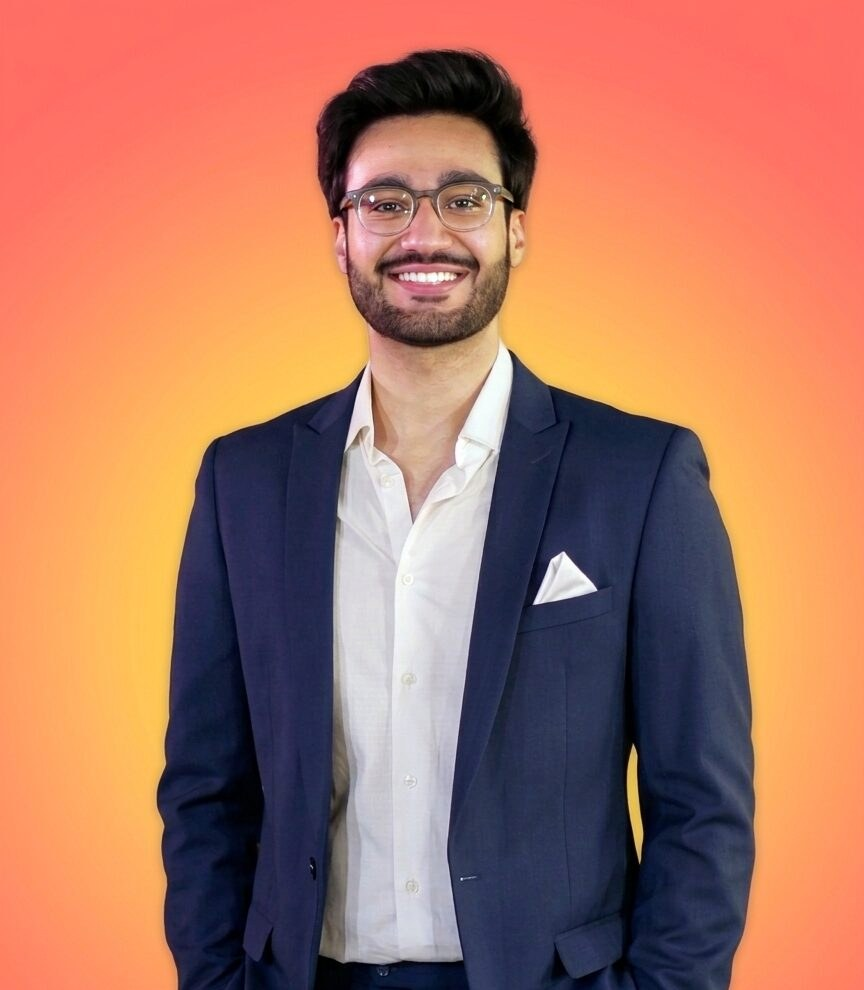
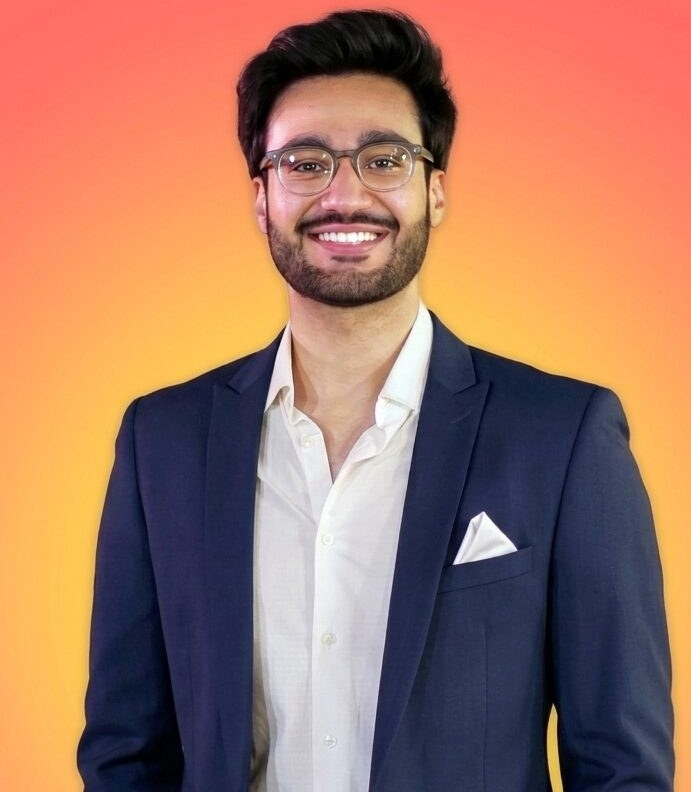
Add files via upload

diff --git a/lite.html b/lite.html
@@ -123,6 +123,14 @@ em.s{font-family:var(--f-serif);font-style:italic;font-weight:400;letter-spacing
 .row span{display:block;font-size:14px;color:var(--ink-2);line-height:1.45}
 .row span.at{color:var(--accent);font-size:13.5px;margin-top:1px}
 .row.aw{grid-template-columns:96px 1fr 52px;align-items:center}
+.row.jb{grid-template-columns:96px 1fr 92px}
+.row.jb .lgw{display:flex;justify-content:flex-end;padding-top:4px}
+.row.jb .lg{height:16px;width:auto;max-width:92px;object-fit:contain;object-position:right top;filter:brightness(0);opacity:.8}
+.row.jb .lg[src*="leoburnett"]{height:24px;padding-top:0}
+.sub{display:flex;justify-content:space-between;align-items:baseline;gap:12px;margin:22px 0 10px;padding-top:12px;border-top:1px solid var(--line)}
+.sub b{font-size:15px;letter-spacing:.02em}
+.sub .mono{color:var(--mute)}
+.head + .sub{margin-top:4px}
 .row.aw .tr{display:flex;justify-content:flex-end;align-items:center;color:var(--accent)}
 .row.aw .troph{height:44px;width:auto;max-width:52px;object-fit:contain}
 .row.aw .troph.laurel{width:42px;height:42px}
@@ -220,14 +228,17 @@ dialog.lb .bar .mono{color:#B8AEA6}
     <div class="work" id="work-grid"></div>
   </section>
 
+  <section class="sec" id="film">
+    <div class="head"><h2>Film &amp; <em class="s">reel</em></h2><span class="mono">Scroll each row →</span></div>
+    <div class="sub"><b>Producer</b><span class="mono" id="n-p"></span></div>
+    <div class="strip" id="strip-p"></div>
+    <div class="sub"><b>Director</b><span class="mono" id="n-d"></span></div>
+    <div class="strip" id="strip-d"></div>
+  </section>
+
   <section class="sec" id="experiences">
     <div class="head"><h2>Brand <em class="s">experiences</em></h2><span class="mono">KSA · 2025</span></div>
     <div class="exp" id="exp-grid"></div>
-  </section>
-
-  <section class="sec" id="film">
-    <div class="head"><h2>Film &amp; <em class="s">reel</em></h2><span class="mono">Scroll →</span></div>
-    <div class="strip" id="strip"></div>
   </section>
 
   <section class="sec two" id="career">
@@ -250,7 +261,7 @@ dialog.lb .bar .mono{color:#B8AEA6}
 
   <section class="sec">
     <div class="how">
-      <p class="big">A creative who can write the script, run the pitch, sit in the edit and <span class="key">still care about the brief</span>.</p>
+      <p class="big">A creative who can write the script, run the pitch, sit in the edit and <span class="key">still lead with the brief</span>.</p>
       <div><span class="n">01</span><b>Start from a truth</b><span>Every campaign begins with a consumer insight, tested hard before it's made.</span></div>
       <div><span class="n">02</span><b>Plan where it counts</b><span>Integrated brand plans that decide where the investment goes, not just what it looks like.</span></div>
       <div><span class="n">03</span><b>Make it, fast</b><span>Production roots, AI workflows and a think-tank team that pitches 2–3 big ideas a month.</span></div>
@@ -291,12 +302,13 @@ const byId=(list,id)=>list.find(p=>p.id===id);
 const vsrc=v=>`./${v}.mp4`;
 const PICKS=["always","zyn","safeguard","dalda","knorr","value","barbican","kia","closeup"];
 const HOV={v45:12,v46:28,v47:24,v43:3,v23:2,v20:6,v31:3,v53:3,v55:3,v57:3,v44:20};
-const STRIP=[
+const PROD=[
  ["v45","Teri Meri Kahaniyaan","Feature film · marketing"],["v46","Rawalpindi Express","Feature film · producer"],
- ["v47","Digestive Showtime","15M+ views in month one"],["v43","National Ketchup Factory","Web series · Effie Bronze"],
- ["v23","Dalda · Eid se Pehle Eidi","Ramadan · associate director"],["v20","Dalda · Maamta","Writer"],["v31","Surf Excel · Ziddi Daaghon Se Kia Darna","MullenLowe · thematic"],
- ["v53","KIA Stonic · Beach","Associate director"],["v55","Always · Shhh","Associate director"],
- ["v57","Ensure · Abbott TVC","Director"],["v44","Healthy Saudi Smile","Haleon KSA · producer"]
+ ["v47","Digestive Showtime","20M+ views"],["v43","National Ketchup Factory","Web series · Effie Bronze"],
+ ["v44","Healthy Saudi Smile","Haleon KSA · producer"],["v42","DVC Showreel","TVCs & DVCs · 2019"],
+ ["v77","Scrub Shine Ultra","TVC · producer"],["v78","Jazz Super","TVC · producer"],["v79","Fresh Up","TVC · producer"],["v80","Domino's Mighty","TVC · producer"],["v81","Oppo Reno2 F","TVC · producer"],
+ ["v82","Digestive Showtime · Yorker","Short film · assoc. creative producer"],["v83","Digestive Showtime · Daughter By Law","Short film · assoc. creative producer"],["v84","Digestive Showtime · 2 Sey 5","Short film · assoc. creative producer"],["v85","Digestive Showtime · Full Circle","Short film · assoc. creative producer"],["v86","Digestive Showtime · Road Trip","Short film · assoc. creative producer"],
+ ["v87","Peek Freans RIO · Cotton Candy","3D film · producer · 2020"],["v88","Peek Freans RIO · Blueberry Magic","3D film · producer · 2020"],["v89","Peek Freans RIO · Beach","3D film · producer · 2020"],["v90","Peek Freans RIO · Fly To Me","3D film · producer · 2020"]
 ];
 const LJOBS=[
  ["2025 – now","Regional Creative Lead","Helium Marketing · UAE","Creative lead on a $16M Fortune 500 portfolio (PepsiCo, Unilever) plus Barbican across 6 GCC markets, from strategy and pitch to the finished campaigns."],
@@ -313,12 +325,15 @@ const AW=[
  ["2023","iF Design Award","KIA Stonic · #PlayItYoung","if"],
  ["2020","Effie Bronze","National Ketchup Factory web series","effie-bronze"]
 ];
-const tile=(p,list)=>`<button class="w" data-case="${p.id}" data-list="${list}"><div class="th"><img src="${p.poster}" alt="" loading="lazy">${p.loop?`<video muted loop playsinline preload="none" data-src="${vsrc(p.loop)}"></video>`:""}${p.award?`<span class="sash">${p.award}</span>`:""}<span class="pl cs">View case</span></div>
+const LPOST={value:"./value-trio-l.jpg"};
+const tile=(p,list)=>`<button class="w" data-case="${p.id}" data-list="${list}"><div class="th"><img src="${LPOST[p.id]||p.poster}" alt="" loading="lazy">${p.loop?`<video muted loop playsinline preload="none" data-src="${vsrc(p.loop)}"></video>`:""}${p.award?`<span class="sash">${p.award}</span>`:""}<span class="pl cs">View case</span></div>
   <div class="m"><span class="mono">${p.client}</span><span class="mono">${p.year}</span></div><h3>${p.title}</h3><p>${p.line}</p></button>`;
 $("#work-grid").innerHTML=PICKS.map(id=>tile(byId(WORK,id),"work")).join("");
 $("#exp-grid").innerHTML=EXP.map(p=>tile(p,"exp")).join("");
-$("#strip").innerHTML=STRIP.map(([v,t,r])=>`<button data-play="${v}" data-title="${t}"><div class="th"><img src="${P(v)}" alt="" loading="lazy">${HOV[v]!=null?`<video muted loop playsinline preload="none" data-src="${vsrc(v)}" data-start="${HOV[v]}"></video>`:""}</div><span class="t">${t}<em>${mmss(RT[v])}</em></span><span class="r">${r}</span></button>`).join("");
-$("#jobs").innerHTML=LJOBS.map(j=>`<div class="row"><span class="y">${j[0]}</span><div><b>${j[1]}</b><span class="at">${j[2]}</span><span>${j[3]}</span></div></div>`).join("");
+const stripBtn=(([v,t,r])=>`<button data-play="${v}" data-title="${t}"><div class="th"><img src="${P(v)}" alt="" loading="lazy"><video muted loop playsinline preload="none" data-src="${vsrc(v)}" data-start="${HOV[v]??3}"></video></div><span class="t">${t}<em>${mmss(RT[v])}</em></span><span class="r">${r}</span></button>`);
+$("#strip-p").innerHTML=PROD.map(stripBtn).join(""); $("#n-p").textContent=PROD.length+" projects";
+$("#strip-d").innerHTML=REEL.map(stripBtn).join(""); $("#n-d").textContent=REEL.length+" films";
+$("#jobs").innerHTML=LJOBS.map((j,k)=>`<div class="row jb"><span class="y">${j[0]}</span><div><b>${j[1]}</b><span class="at">${j[2]}</span><span>${j[3]}</span></div><span class="lgw">${LOGOS[k]?`<img class="lg" src="${LOGOS[k]}" alt="" loading="lazy">`:""}</span></div>`).join("");
 $("#awards").innerHTML=AW.map(a=>`<div class="row aw"><span class="y">${a[0]}</span><div><b>${a[1]}</b><span>${a[2]}</span></div><span class="tr">${TR(a[3])}</span></div>`).join("");
 
 /* hover previews */

diff --git a/data.js b/data.js
@@ -1,7 +1,7 @@
 /* ============ DATA ============
    Video sources: "v12" = local file ./v12.mp4.
    To host on Vimeo or YouTube later, replace with "vimeo:123456789" or "youtube:VIDEO_ID". */
-const RT={v63:20,v1:20,v2:30,v3:10,v4:30,v5:15,v6:14,v7:13,v8:23,v9:15,v10:32,v11:26,v12:26,v13:25,v14:26,v15:23,v16:31,v17:32,v18:30,v19:30,v20:60,v21:25,v22:10,v23:25,v24:15,v25:10,v26:15,v27:10,v28:22,v29:15,v30:10,v31:30,v32:50,v33:20,v34:20,v35:15,v36:46,v37:26,v38:15,v39:49,v40:57,v41:56,v42:62,v43:26,v44:118,v45:196,v46:67,v47:60,v48:10,v49:21,v50:28,v51:26,v52:15,v53:56,v54:49,v55:13,v56:13,v57:45,v58:15,v59:35,v60:80,v61:22,v62:53};
+const RT={v63:20,v1:20,v2:30,v3:10,v4:30,v5:15,v6:14,v7:13,v8:23,v9:15,v10:32,v11:26,v12:26,v13:25,v14:26,v15:23,v16:31,v17:32,v18:30,v19:30,v20:60,v21:25,v22:10,v23:25,v24:15,v25:10,v26:15,v27:10,v28:22,v29:15,v30:10,v31:30,v32:50,v33:20,v34:20,v35:15,v36:46,v37:26,v38:15,v39:49,v40:57,v41:56,v42:62,v43:26,v44:118,v45:196,v46:67,v47:60,v48:10,v49:21,v50:28,v51:26,v52:15,v53:56,v54:49,v55:13,v56:13,v57:45,v58:15,v59:35,v60:80,v61:22,v62:53,v64:24,v65:29,v66:15,v67:15,v68:15,v69:93,v70:25,v71:46,v72:15,v73:42,v74:40,v75:120,v76:84,v77:60,v78:12,v79:50,v80:49,v81:61,v82:47,v83:78,v84:53,v85:77,v86:53,v87:55,v88:40,v89:35,v90:40};
 const TALL=new Set(["v6","v7","v17","v26","v27","v29","v30"]);
 const I=n=>typeof n==="number"?`./image${n}.jpg`:`./${n}.jpg`;
 const POVR={v2:"./th-always.jpg",v20:"./th-dalda.jpg",v45:"./th-tmk.jpg",v46:"./th-rwp.jpg",v47:"./th-dig.jpg"};
@@ -127,16 +127,38 @@ const FILM=[
  {id:"rawalpindi",client:"Feature film",year:"2023",role:"Producer",title:"Rawalpindi Express",poster:P("v46"),v:"v46",hov:28,
   line:"The Shoaib Akhtar biopic. I line-produced the first-look teaser."},
  {id:"digestive",client:"Short-film platform · YouTube",year:"2021",role:"Associate Creative Producer",title:"Digestive Showtime",poster:P("v47"),v:"v47",hov:24,
-  line:"5 films, 5 directors, crews of 150, and <b>15M+ views</b> in the first month."},
+  line:"5 films, 5 directors, crews of 150, and <b>20M+ views</b>."},
  {id:"nkf",client:"12-episode web series",year:"2020",role:"Associate Creative Producer",title:"National Ketchup Factory",poster:P("v43"),v:"v43",hov:3,award:"Effie Bronze",trophy:"effie-bronze",
   line:"A kids' cooking series for National Foods that won an Effie."},
  {id:"haleon",client:"Haleon · KSA",year:"2025",role:"Producer",title:"Healthy Saudi Smile",poster:I(80),v:"v44",hov:20,
   line:"A Saudi oral-health film produced end to end."},
  {id:"dvc",client:"TVCs & DVCs",year:"2019",role:"Associate Creative Producer · Director",title:"DVC Showreel",poster:P("v42"),v:"v42",hov:5,
-  line:"Work for EBM, National Foods, Domino's, Oppo and Bayer."}
+  line:"Work for EBM, National Foods, Domino's, Oppo and Bayer."},
+ /* added Nov 2026 from the Director & Producer deck */
+ {id:"scrub",client:"TVC",year:"",role:"Producer",title:"Scrub Shine Ultra",poster:P("v77"),v:"v77",hov:4,line:""},
+ {id:"jazz",client:"TVC",year:"",role:"Producer",title:"Jazz Super",poster:P("v78"),v:"v78",hov:3,line:""},
+ {id:"freshup",client:"TVC",year:"",role:"Producer",title:"Fresh Up",poster:P("v79"),v:"v79",hov:4,line:""},
+ {id:"dominos",client:"TVC",year:"",role:"Producer",title:"Domino's Mighty",poster:P("v80"),v:"v80",hov:4,line:""},
+ {id:"oppo",client:"TVC",year:"",role:"Producer",title:"Oppo Reno2 F",poster:P("v81"),v:"v81",hov:4,line:""},
+ {id:"ds-yorker",client:"Digestive Showtime",year:"2021",role:"Associate Creative Producer",title:"Yorker",poster:P("v82"),v:"v82",hov:6,line:""},
+ {id:"ds-dbl",client:"Digestive Showtime",year:"2021",role:"Associate Creative Producer",title:"Daughter By Law",poster:P("v83"),v:"v83",hov:6,line:""},
+ {id:"ds-2sey5",client:"Digestive Showtime",year:"2021",role:"Associate Creative Producer",title:"2 Sey 5",poster:P("v84"),v:"v84",hov:6,line:""},
+ {id:"ds-circle",client:"Digestive Showtime",year:"2021",role:"Associate Creative Producer",title:"Full Circle",poster:P("v85"),v:"v85",hov:6,line:""},
+ {id:"ds-road",client:"Digestive Showtime",year:"2021",role:"Associate Creative Producer",title:"Road Trip",poster:P("v86"),v:"v86",hov:6,line:""},
+ {id:"rio-cc",client:"Peek Freans RIO · 3D",year:"2020",role:"Producer",title:"RIO Cotton Candy",poster:P("v87"),v:"v87",hov:4,line:""},
+ {id:"rio-bb",client:"Peek Freans RIO · 3D",year:"2020",role:"Producer",title:"RIO Blueberry Magic",poster:P("v88"),v:"v88",hov:4,line:""},
+ {id:"rio-beach",client:"Peek Freans RIO · 3D",year:"2020",role:"Producer",title:"RIO Beach",poster:P("v89"),v:"v89",hov:4,line:""},
+ {id:"rio-fly",client:"Peek Freans RIO · 3D",year:"2020",role:"Producer",title:"RIO Fly To Me",poster:P("v90"),v:"v90",hov:4,line:""}
 ];
 
-const REEL=[["v52","Dalda · Har Din Eid"],["v48","Dalda · Eid se Pehle Eidi"],["v49","ZYN · Find Your ZYN"],["v50","ZYN · Jamming"],["v51","ZYN · Painting"],["v53","KIA Stonic · Beach"],["v54","KIA Stonic · Rooftop"],["v55","Always · Shhh"],["v56","Always · Haww Haye"],["v57","Ensure · Abbott TVC"],["v58","Faysal Bank · Credit Cards"],["v59","Faysal Bank · Rehmat Account"]];
+const REEL=[["v52","Dalda · Har Din Eid","Associate director"],["v48","Dalda · Eid se Pehle Eidi","Associate director"],["v49","ZYN · Find Your ZYN","Associate director"],["v50","ZYN · Jamming","Associate director"],["v51","ZYN · Painting","Associate director"],["v53","KIA Stonic · Beach","Associate director"],["v54","KIA Stonic · Rooftop","Associate director"],["v55","Always · Shhh","Associate director"],["v56","Always · Haww Haye","Associate director"],["v57","Ensure · Abbott TVC","Director"],["v58","Faysal Bank · Credit Cards","Assistant director"],["v59","Faysal Bank · Rehmat Account","Assistant director"],
+ /* added Nov 2026 from the Director & Producer deck */
+ ["v9","ZYN · XX-Strong CGI","Director"],["v15","ZYN · Watermelon","Associate director"],["v40","KIA Stonic · Film 3","Associate director"],
+ ["v64","Shangrila · Ketchup Sauce","Associate director"],["v65","Shangrila · BBQ Sauce","Associate director"],
+ ["v66","Ensure · Cricket 1","Associate director"],["v67","Ensure · Cricket 2","Associate director"],["v68","Ensure · Cricket 3","Associate director"],
+ ["v69","Unilever · Chef Jason hero film","Associate director"],["v70","Unilever · Chef Jason teaser","Associate director"],["v71","Lay's · Chili Tasting Challenge","Associate director"],
+ ["v72","Faysal Bank · Credit Cards BTS","Assistant director"],["v73","Mercury Pens · Office","Associate director"],["v74","Mercury Pens · School","Associate director"],
+ ["v75","Castrol · DVC 1","Assistant director"],["v76","Castrol · DVC 2","Assistant director"]];
 
 const AWARDS=[
  ["2025","Saudi Event Awards","Outstanding Activation · Nominee","Flamin' Hot Culinary Activation","Helium MENA","laurel"],
@@ -156,6 +178,8 @@ const JOBS=[
  ["2021 – 2024","Associate Creative Director","MullenLowe · PK","Led a team of 12 across 11 brands in 2 markets, reporting to the CCO. Won 2 new brands, won back 2, grew the retainer base by 20%, and rebuilt Knorr's bouillon identity for Gen-Z."],
  ["2018 – 2021","Creative Producer","SEEME · Tall Man Films · Digital Invasion","Produced, wrote and directed for EBM, National Foods, Domino's, Oppo and Bayer. 16+ TVCs, an Effie-winning web series, and an OTT and cinema division with 2 theatrical features."]
 ];
+
+const LOGOS=["./logo-helium.png","./logo-leoburnett.png","./logo-mullenlowe.png","./logo-seeme.png"];
 
 const BRANDS=["P&G","PepsiCo","Unilever","Philip Morris","Always","Ariel","Safeguard","ZYN","Barbican","DZRT","Dubai Holding","Close Up","Lay's","Sting","Doritos","Dalda","KIA","Lifebuoy","Knorr","Surf Excel","Haleon","EFU Life","Domino's","Oppo"];
 

diff --git a/index.html b/index.html
@@ -135,8 +135,9 @@ section{scroll-margin-top:72px}
 @media (max-width:700px){.strip{grid-auto-columns:78%}}
 .sub-h{display:flex;justify-content:space-between;align-items:baseline;gap:16px;margin:72px 0 24px;border-top:1px solid var(--line);padding-top:22px;flex-wrap:wrap}
 .sub-h h3{margin:0;font-size:clamp(26px,3vw,38px);letter-spacing:-.03em;font-weight:700}
-.reel{display:grid;grid-template-columns:repeat(4,1fr);gap:12px}
-@media (max-width:860px){.reel{grid-template-columns:repeat(2,1fr)}}
+.reel{display:flex;gap:12px;overflow-x:auto;scroll-snap-type:x proximity;padding-bottom:14px;scrollbar-color:var(--ink-3) transparent}
+.reel .pg{flex:0 0 100%;display:grid;grid-template-columns:repeat(4,1fr);grid-auto-rows:min-content;align-content:start;gap:12px;scroll-snap-align:start}
+@media (max-width:860px){.reel .pg{grid-template-columns:repeat(2,1fr)}}
 .reel button{position:relative;aspect-ratio:16/9;border:0;padding:0;border-radius:10px;overflow:hidden;background:var(--ink-3)}
 .reel img{width:100%;height:100%;object-fit:cover;transition:transform .5s}
 .reel button:hover img{transform:scale(1.04)}
@@ -169,6 +170,8 @@ section{scroll-margin-top:72px}
 .job{padding:26px 22px 8px 0;display:grid;gap:10px;align-content:start;position:relative}
 .job::before{content:"";position:absolute;top:-5px;left:0;width:9px;height:9px;border-radius:50%;background:var(--ink);border:1.5px solid var(--mute)}
 .job:first-child::before{background:var(--key);border-color:transparent;box-shadow:0 0 18px rgba(255,140,60,.6)}
+.job .lg{height:20px;width:auto;max-width:150px;object-fit:contain;object-position:left center;opacity:.85;margin-bottom:4px}
+.job .lg[src*="leoburnett"]{height:30px;max-width:150px;margin:-5px 0 -1px}
 .job h4{margin:0;font-size:22px;letter-spacing:-.02em;line-height:1.1}
 .job .at{color:var(--amber);font-size:15px}
 .job p{margin:0;color:var(--mute);font-size:15px}
@@ -318,7 +321,7 @@ dialog.lb .bar{display:flex;justify-content:space-between;align-items:center;gap
         <p>Before agencies, I produced for production houses: two theatrical features, a YouTube short-film platform, an Effie-winning web series and 16+ TVCs. I still produce and direct today.</p>
       </div>
       <div class="strip" id="filmStrip"></div>
-      <div class="sub-h"><h3>Director's reel</h3><span class="mono">TVCs &amp; DVCs I directed or associate-directed</span></div>
+      <div class="sub-h"><h3>Director's reel</h3><span class="mono">TVCs &amp; DVCs I directed, associate- or assistant-directed · scroll →</span></div>
       <div class="reel" id="reel"></div>
     </section>
 
@@ -353,7 +356,7 @@ dialog.lb .bar{display:flex;justify-content:space-between;align-items:center;gap
         </figure>
         <div class="about-body">
           <span class="mono">About</span>
-          <p class="big">I'm a creative who can write the script, run the pitch, sit in the edit and <span class="key">still care about the brief</span>.</p>
+          <p class="big">I'm a creative who can write the script, run the pitch, sit in the edit and <span class="key">still lead with the brief</span>.</p>
           <p>I started in production houses, owning budgets, crews and post, and moved into agencies to shape the ideas themselves. That mix is still how I work. I want the insight to be sharp, and I want it to survive the shoot.</p>
           <p>Today I lead brand strategy, creative direction and content production at Helium Marketing for PepsiCo, Unilever, Barbican and more. Before that I ran the P&amp;G and Philip Morris portfolios at Leo Burnett, and spent three years at MullenLowe on Unilever, Dalda and KIA.</p>
           <p>Along the way I've built integrated brand plans for Fortune 500 FMCG brands that lifted affinity by up to <b>18%</b>, sales by <b>11%</b> and category share by <b>20%</b>. I like being in the room where it's decided where the investment goes.</p>
@@ -438,11 +441,12 @@ $("#workGrid").innerHTML=WORK.map(p=>card(p,"work")).join("");
 $("#expGrid").innerHTML=EXP.map((p,i)=>card(p,"exp",i?"":"")).join("");
 $("#filmStrip").innerHTML=FILM.map(f=>`<button class="card rv" data-play="${f.v}" data-title="${f.title}">
   <div class="shot"><img src="${f.poster}" alt="" loading="lazy"><video muted loop playsinline preload="none" data-src="${vsrc(f.v)}" data-start="${f.hov||0}"></video>${f.award?`<span class="sash">${f.award}</span>`:""}<span class="tag mono"><i class="dot"></i>${f.role}</span></div>
-  <div class="meta"><span class="mono">${f.client} · ${f.year}</span><span class="mono">RT ${mmss(RT[f.v])}</span></div>
-  <h3>${f.title}</h3><p class="res">${f.line}</p></button>`).join("");
-$("#reel").innerHTML=REEL.map(([v,t])=>`<button data-play="${v}" data-title="${t}" aria-label="Play ${t}"><img src="${P(v)}" alt="" loading="lazy"><span class="pl" aria-hidden="true"><svg viewBox="0 0 14 14"><path d="M3 1.8v10.4L12 7z" fill="currentColor"/></svg></span><span class="t"><span>${t}</span><em>${mmss(RT[v])}</em></span></button>`).join("");
+  <div class="meta"><span class="mono">${f.client}${f.year?` · ${f.year}`:""}</span><span class="mono">RT ${mmss(RT[f.v])}</span></div>
+  <h3>${f.title}</h3>${f.line?`<p class="res">${f.line}</p>`:""}</button>`).join("");
+const reelBtn=([v,t])=>`<button data-play="${v}" data-title="${t}" aria-label="Play ${t}"><img src="${P(v)}" alt="" loading="lazy"><span class="pl" aria-hidden="true"><svg viewBox="0 0 14 14"><path d="M3 1.8v10.4L12 7z" fill="currentColor"/></svg></span><span class="t"><span>${t}</span><em>${mmss(RT[v])}</em></span></button>`;
+$("#reel").innerHTML=Array.from({length:Math.ceil(REEL.length/12)},(_,k)=>`<div class="pg">${REEL.slice(k*12,k*12+12).map(reelBtn).join("")}</div>`).join("");
 $("#awardList").innerHTML=AWARDS.map(a=>`<div class="aw rv"><span class="y">${a[0]}</span><span class="n">${a[1]}<small>${a[2]}</small></span><span class="p">${a[3]}</span><span class="a">${a[4]}</span>${TR(a[5])?`<span class="tr">${TR(a[5])}</span>`:""}</div>`).join("");
-$("#jobs").innerHTML=JOBS.map(j=>`<div class="job rv"><span class="mono">${j[0]}</span><h4>${j[1]}</h4><span class="at">${j[2]}</span><p>${j[3]}</p></div>`).join("");
+$("#jobs").innerHTML=JOBS.map((j,k)=>`<div class="job rv">${LOGOS[k]?`<img class="lg" src="${LOGOS[k]}" alt="" loading="lazy">`:""}<span class="mono">${j[0]}</span><h4>${j[1]}</h4><span class="at">${j[2]}</span><p>${j[3]}</p></div>`).join("");
 
 /* hover previews (pointer devices only) */
 const canHover=matchMedia("(hover:hover) and (pointer:fine)").matches && !matchMedia("(prefers-reduced-motion:reduce)").matches;
